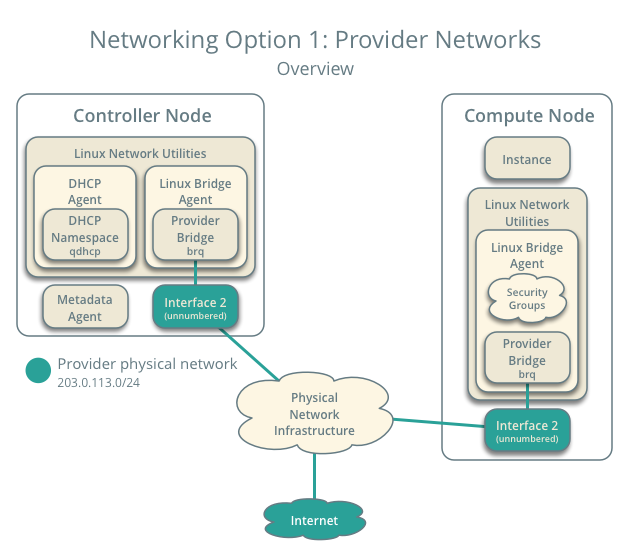
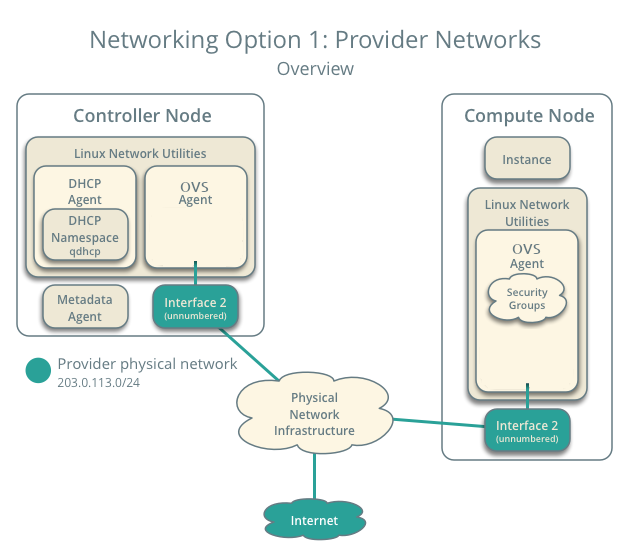
Change Linuxbridge to OVS in providernet setup

diff --git a/doc/install-guide/source/launch-instance-networks-provider.rst b/doc/install-guide/source/launch-instance-networks-provider.rst
@@ -85,8 +85,9 @@ Create the provider network
 
    The ``--provider-physical-network provider`` and
    ``--provider-network-type flat`` options connect the flat virtual network
-   to the flat (native/untagged) physical network on the ``eth1`` interface
-   on the host using information from the following files:
+   to the flat (native/untagged) physical network on the ``br0`` bridge, which
+   can have a port which is connected to ``eth0`` on the host using information
+   from the following files:
 
    ``ml2_conf.ini``:
 
@@ -95,12 +96,12 @@ Create the provider network
       [ml2_type_flat]
       flat_networks = provider
 
-   ``linuxbridge_agent.ini``:
+   ``ml2_conf.ini``:
 
    .. code-block:: ini
 
-      [linux_bridge]
-      physical_interface_mappings = provider:eth1
+      [ovs]
+      bridge_mappings = provider:br0
 
 #. Create a subnet on the network:
 
